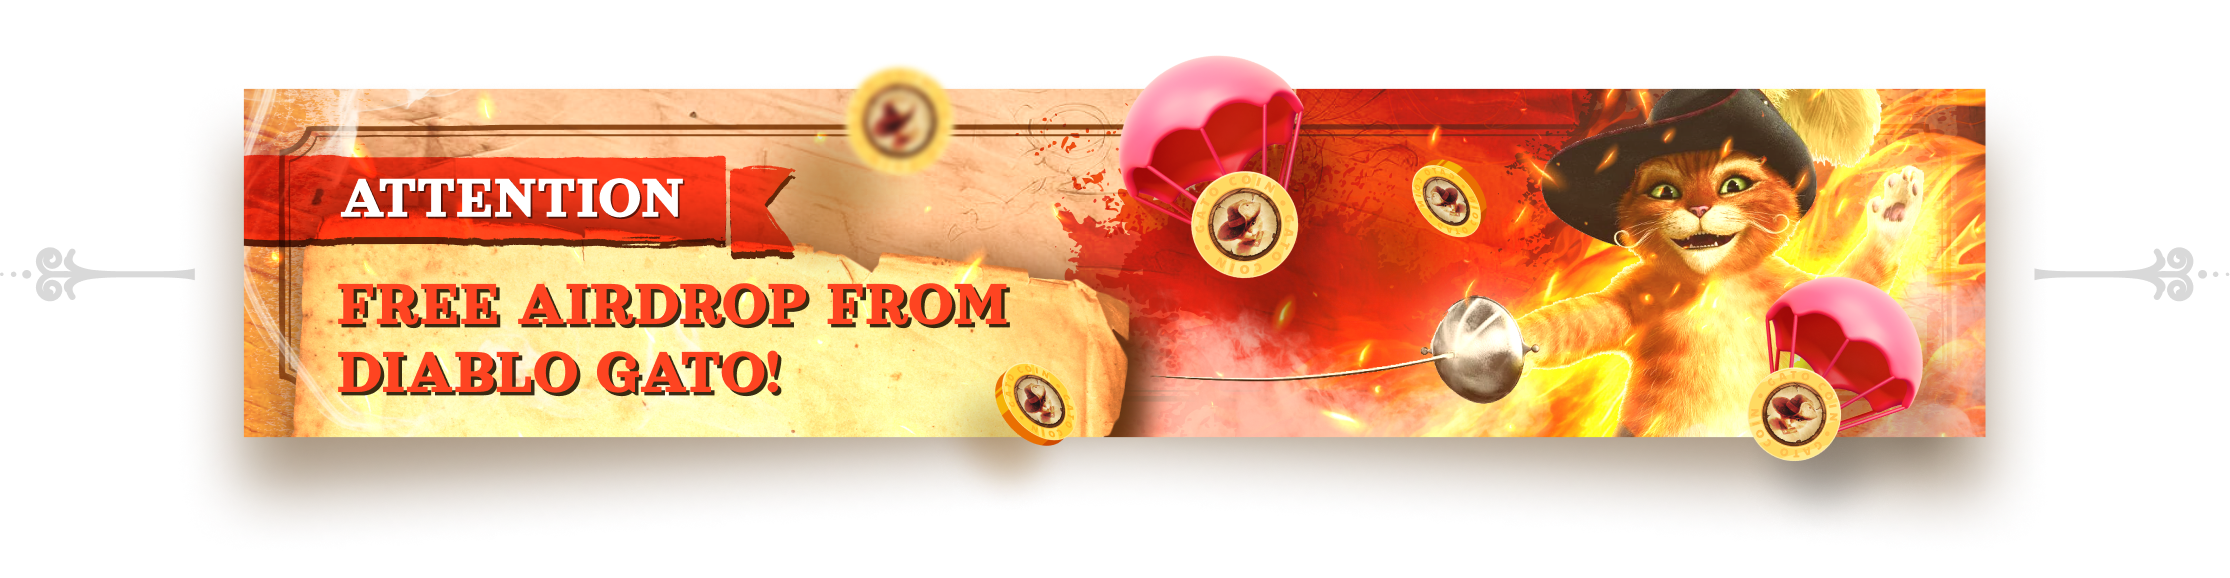
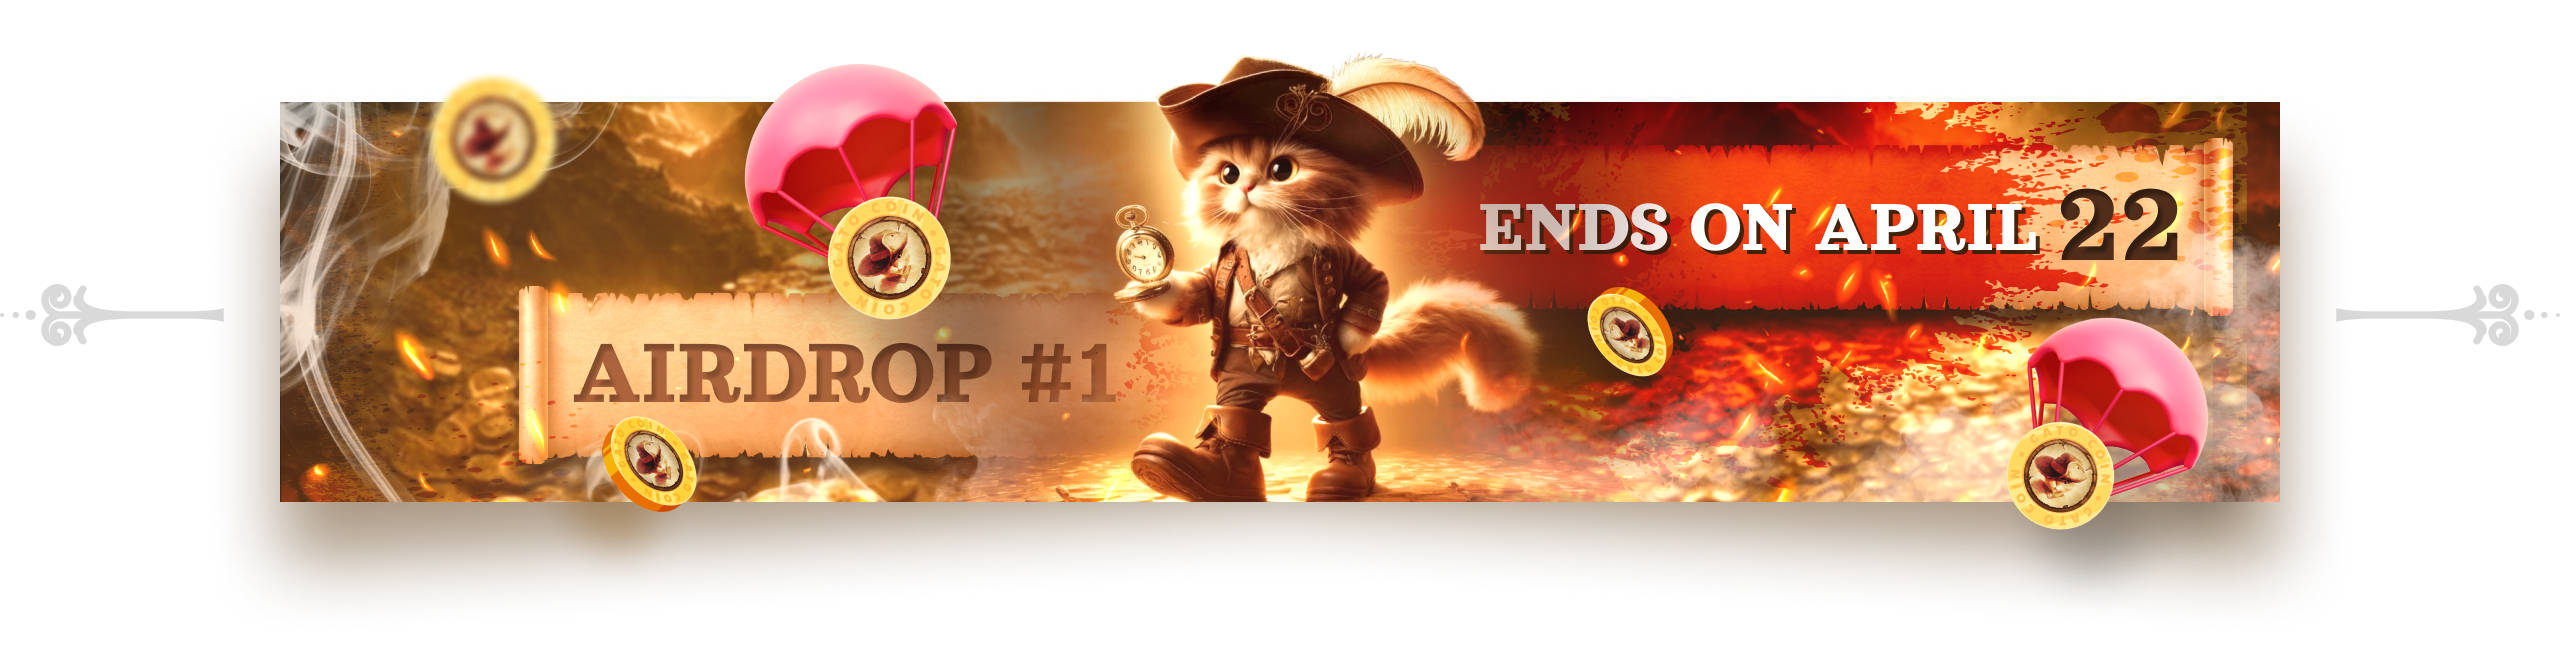
Threads

diff --git a/index.html b/index.html
@@ -90,7 +90,7 @@
 								<!-- nav left -->
 								<nav class="header__nav header__nav--left">
 										<div class="header__nav-divider"></div>
-										<a href="#about" class="header__nav-link">about</a>
+										<a href="#about" class="header__nav-link">GATO</a>
 										<div class="header__nav-divider"></div>
 										<a href="#tokenomics" class="header__nav-link">Tokenomics</a>
 										<div class="header__nav-divider"></div>
@@ -139,7 +139,7 @@
 
 				<nav class="headerSection__burgerMenu-nav">
 						<a href="#" class="headerSection__burgerMenu-nav-item">
-								about
+								GATO
 						</a>
 						<a href="#" class="headerSection__burgerMenu-nav-item">
 								Tokenomics
@@ -201,11 +201,13 @@
 												</div>
 
 												<h1 class="intro__content-h1">
-														Try to pick up new crypto cat
+														Join the gang of the great Diablo Gato
 												</h1>
 
 												<div class="intro__content-text">
-														Everyone looks at cute dogs, hamsters, frogs and sadly regrets that they did not have time to “take” them for themselves. More recently, they were the kings of meme tokens, but
+														Over my long life, I, Diablo Gato, have accumulated many treasures.
+The most valuable of them are my beautiful Kitty Softpaw and my $GATO coins. I will never give you the kitty, but you can take my coins.
+Take courage and prove that you are worthy to join the Diablo Gato gang!
 												</div>
 
 												<div class="intro__content-buttons">
@@ -309,16 +311,16 @@
 																 alt="icon"
 																 class="flagedTitle__icon flagedTitle__icon--Left">
 														<div class="flagedTitle__text">
-																About Us
+																About GATO
 														</div>
 												</h2>
 
 												<div class="flagedTitle--Subtitle about__content-text-subtitle">
-														Try to pick up new crypto cat
+														Join the gang of the great Diablo Gato
 												</div>
 
 												<div class="about__content-text-simpleText">
-														Everyone looks at cute dogs, hamsters, frogs and sadly regrets that they did not have time to “take” them for themselves. More recently, they were the kings of meme tokens, but Everyone looks at cute dogs, hamsters, frogs and sadly regrets that they did not have time to “take” them for themselves. More recently, they were the kings of
+														Diablo Gato ($GATO) is a memecoin dedicated to the most charismatic character of the animated series “Puss in Boots”. The token is based on the TON blockchain and was created to popularize blockchain technology and unite a large audience into one whole crypto community. $GATO is based on the Play2Earn concept and regular events that support the activity and expansion of the token community
 												</div>
 
 												<div class="about__content-text-buttons">
@@ -377,7 +379,7 @@
 																 alt="bottom"
 																 class="about__badges-item-bottom-bg">
 														<div class="about__badges-item-bottom-text">
-																3q 2024
+																2q 2024
 														</div>
 												</div>
 										</div>
@@ -395,7 +397,7 @@
 																 alt="bottom"
 																 class="about__badges-item-bottom-bg">
 														<div class="about__badges-item-bottom-text">
-																2q 2024
+																3q 2024
 														</div>
 												</div>
 										</div>
@@ -413,7 +415,7 @@
 																 alt="bottom"
 																 class="about__badges-item-bottom-bg">
 														<div class="about__badges-item-bottom-text">
-																1q 2024
+																3q 2024
 														</div>
 												</div>
 										</div>
@@ -431,7 +433,7 @@
 																 alt="bottom"
 																 class="about__badges-item-bottom-bg">
 														<div class="about__badges-item-bottom-text">
-																soon
+																3q 2024
 														</div>
 												</div>
 										</div>
@@ -467,7 +469,7 @@
 										</h2>
 
 										<div class="flagedTitle--Subtitle tokenomics__header-subtitle">
-												Token Supply: 420,690,000,000,000 GATO
+												Token Supply: 10,000,000,000 GATO
 										</div>
 
 								</div>
@@ -516,7 +518,7 @@
 
 														<!-- text -->
 														<div class="tokenomics__main-list-item-text">
-																– Distribution for invitation  *Airdrop level 1*
+																– Distribution for invitation  *Airdrop 1*
 														</div>
 												</div>
 
@@ -549,7 +551,7 @@
 
 														<!-- text -->
 														<div class="tokenomics__main-list-item-text">
-																– Presale
+																– FairLaunch
 														</div>
 												</div>
 
@@ -801,7 +803,7 @@
 																 alt="icon"
 																 class="flagedTitle__icon flagedTitle__icon--Left">
 														<div class="flagedTitle__text">
-																HOW TO BUY
+																HOW TO BUY GATO on FAIRLAUNCH
 														</div>
 														<img src="ui/flagedTitle/img/right.svg"
 																 alt="icon"
@@ -809,11 +811,11 @@
 												</h2>
 
 												<div class="flagedTitle--Subtitle how__header-subtitle">
-														It has never been easier, simpler and clearer
+														FairLaunch is simple, fair and safe
 												</div>
 
 												<div class="how__header-text">
-														Everyone looks at cute dogs, hamsters, frogs and sadly regrets that they did not have time to “take” them for themselves. More recently, they were the kings of meme tokens, but Everyone looks at cute dog
+														On FairLaunch, each participant receives tokens at the same price. It doesn't matter who you are - a big whale or a small shrimp! And also 51% of all funds collected on FairLaunch are automatically sent to the liquidity pool for listing on DeDust
 												</div>
 
 										</div>
@@ -843,10 +845,10 @@
 
 																		<div class="how__steps-item-content">
 																				<div class="how__steps-item-inner-content-title">
-																						Create a Wallet
+																						Create a TON Wallet
 																				</div>
 																				<div class="how__steps-item-inner-content-text">
-																						Create a MetaMask Wallet using either a desktop computer or an iOS/Android mobile device. That will allow you to buy, sell, send, and receive ELON
+																						Create a TON wallet (for example Tonkeeper\Tonhub\MyTonWallet\TonSpace) or use your own wallet with the TON network
 																				</div>
 																		</div>
 																</div>
@@ -873,10 +875,10 @@
 
 																		<div class="how__steps-item-content">
 																				<div class="how__steps-item-inner-content-title">
-																						Send ETH to wallet
+																						Send TON to wallet
 																				</div>
 																				<div class="how__steps-item-inner-content-text">
-																						You can buy Ethereum (ETH) directly on MetaMask or transfer it to your MetaMask Wallet from exchanges like Coinbase, Tonraffles Binance, etc.
+																						You can buy TON from a wallet or transfer it to your wallet from exchanges like ByBit, Binance, etc.
 																				</div>
 																		</div>
 																</div>
@@ -906,7 +908,7 @@
 																						Go to tonraffles
 																				</div>
 																				<div class="how__steps-item-inner-content-text">
-																						Access your wallet by clicking ‘Connect to a wallet’ and selecting MetaMask. Access your wallet by clicking ‘Connect to a wallet’ and selecting MetaMask.
+																						Go to FairLaunch $GATO at https://tonraffles.app/jetton/fairlaunch/GATO Then connect your wallet to this site
 																				</div>
 																		</div>
 																</div>
@@ -933,10 +935,10 @@
 
 																		<div class="how__steps-item-content">
 																				<div class="how__steps-item-inner-content-title">
-																						Swap ETH for GATO
+																						Buy GATO
 																				</div>
 																				<div class="how__steps-item-inner-content-text">
-																						You can start swapping as soon as you have ETH available! Press ‘Select a token’ and enter the token address or search for it on the tokens list.
+																						Enter the TON amount for which you want to purchase $GATO tokens, click the Buy button and confirm the transaction in your wallet.
 																				</div>
 																		</div>
 																</div>
@@ -1206,7 +1208,7 @@
 										</h2>
 
 										<div class="roadmap__header-text">
-												All jokes aside, here is a rough sketch of $pepe path ahead. We dont wan’t to give everything away on day 1, Expect surprises along the way ;) All jokes aside, here is a rough sketch of $pepe path ahead.
+												You understand that this is just the beginning, right?
 										</div>
 
 								</div>
@@ -1227,13 +1229,7 @@
 
 																<ul class="roadmap__steps-itemWrapper-item-ul">
 																		<li class="roadmap__steps-itemWrapper-item-ul-li">
-																				Pepe merch
-																		</li>
-																		<li class="roadmap__steps-itemWrapper-item-ul-li">
-																				Pepe Academy
-																		</li>
-																		<li class="roadmap__steps-itemWrapper-item-ul-li">
-																				Pepe Tools
+																				04.04.2024  -  Airdrop 1 start
 																		</li>
 																</ul>
 														</div>
@@ -1256,13 +1252,7 @@
 
 																<ul class="roadmap__steps-itemWrapper-item-ul">
 																		<li class="roadmap__steps-itemWrapper-item-ul-li">
-																				Pepe merch
-																		</li>
-																		<li class="roadmap__steps-itemWrapper-item-ul-li">
-																				Pepe Academy
-																		</li>
-																		<li class="roadmap__steps-itemWrapper-item-ul-li">
-																				Pepe Tools
+																				12.04.2024  -  Start $GATO on Fairlaunch
 																		</li>
 																</ul>
 														</div>
@@ -1285,13 +1275,10 @@
 
 																<ul class="roadmap__steps-itemWrapper-item-ul">
 																		<li class="roadmap__steps-itemWrapper-item-ul-li">
-																				Pepe merch
+																				22.04.2024  -  End Fairlaunch $GATO
 																		</li>
 																		<li class="roadmap__steps-itemWrapper-item-ul-li">
-																				Pepe Academy
-																		</li>
-																		<li class="roadmap__steps-itemWrapper-item-ul-li">
-																				Pepe Tools
+																				22.04.2024  -  DeDust Listing
 																		</li>
 																</ul>
 														</div>
@@ -1314,13 +1301,7 @@
 
 																<ul class="roadmap__steps-itemWrapper-item-ul">
 																		<li class="roadmap__steps-itemWrapper-item-ul-li">
-																				Pepe merch
-																		</li>
-																		<li class="roadmap__steps-itemWrapper-item-ul-li">
-																				Pepe Academy
-																		</li>
-																		<li class="roadmap__steps-itemWrapper-item-ul-li">
-																				Pepe Tools
+																				22.04.2024  -  End Airdrop 1, claim $GATO
 																		</li>
 																</ul>
 														</div>
@@ -1343,13 +1324,7 @@
 
 																<ul class="roadmap__steps-itemWrapper-item-ul">
 																		<li class="roadmap__steps-itemWrapper-item-ul-li">
-																				Pepe merch
-																		</li>
-																		<li class="roadmap__steps-itemWrapper-item-ul-li">
-																				Pepe Academy
-																		</li>
-																		<li class="roadmap__steps-itemWrapper-item-ul-li">
-																				Pepe Tools
+																				22.05.2024  -  Start Airdrop 2, Start game
 																		</li>
 																</ul>
 														</div>
@@ -1372,13 +1347,7 @@
 
 																<ul class="roadmap__steps-itemWrapper-item-ul">
 																		<li class="roadmap__steps-itemWrapper-item-ul-li">
-																				Pepe merch
-																		</li>
-																		<li class="roadmap__steps-itemWrapper-item-ul-li">
-																				Pepe Academy
-																		</li>
-																		<li class="roadmap__steps-itemWrapper-item-ul-li">
-																				Pepe Tools
+																				CEX Listings (Mexc, Bitget, BingX, Bybit)
 																		</li>
 																</ul>
 														</div>
@@ -1401,13 +1370,7 @@
 
 																<ul class="roadmap__steps-itemWrapper-item-ul">
 																		<li class="roadmap__steps-itemWrapper-item-ul-li">
-																				Pepe merch
-																		</li>
-																		<li class="roadmap__steps-itemWrapper-item-ul-li">
-																				Pepe Academy
-																		</li>
-																		<li class="roadmap__steps-itemWrapper-item-ul-li">
-																				Pepe Tools
+																				There will be more to come
 																		</li>
 																</ul>
 														</div>
@@ -1460,11 +1423,11 @@
 
 						<div class="noTaxes">
 								<h2 class="noTaxes__title">
-										No Taxes, No Bullshit. It’s that simple!
+										It couldn’t be more convenient, more transparent and simpler. You'll figure it out even if you have paws
 								</h2>
 
 								<div class="noTaxes__text">
-										$pepe coin has no association with Matt Furie or his creation Pepe the Frog. This token is simply paying homage to a meme we all love and recognize. $PEPE is a meme coin with no intrinsic value or expectation of financial return. There is no formal team or roadmap. the coin is completely useless and for entertainment purposes only.
+										Diablo Gato is known throughout the world under the pseudonyms “Puss in Boots”, “Fluffy Don Juan”, “Chupacabra”, “Playful Double Lover” and “Red-haired Killer”. You can call me whatever you want, but know that I'm the best thing you've ever met on your way ^_^.
 								</div>
 
 								<div class="noTaxes__buttons">

diff --git a/components/intro/intro.css b/components/intro/intro.css
@@ -75,7 +75,6 @@
 }
 
 .intro__content {
-  max-width: 800px;
   width: 100%;
 }
 
@@ -84,7 +83,6 @@
 }
 
 .intro__content-h1 {
-  max-width: 560px;
   font-size: 64px;
   color: black;
   text-transform: uppercase;
@@ -92,7 +90,6 @@
 }
 
 .intro__content-text {
-  max-width: 591px;
   font-size: 20px;
   color: #824A2B;
   margin-bottom: 30px;
@@ -105,7 +102,7 @@
 }
 
 .intro__imgSection {
-  width: 100%;
+  width: 90%;
   position: relative;
 }
 
@@ -142,6 +139,7 @@
 @media screen and (max-width: 1560px) {
   .intro__content {
     padding-left: 15px;
+    padding-right: 15px;
   }
 
   .introSection__outerContainer {

diff --git a/components/how_and_simple/how/how.css b/components/how_and_simple/how/how.css
@@ -86,6 +86,7 @@
   align-items: center;
   gap: 10px;
   text-align: center;
+  word-break: break-word;
 }
 
 .how__steps-item-inner-content-title {
